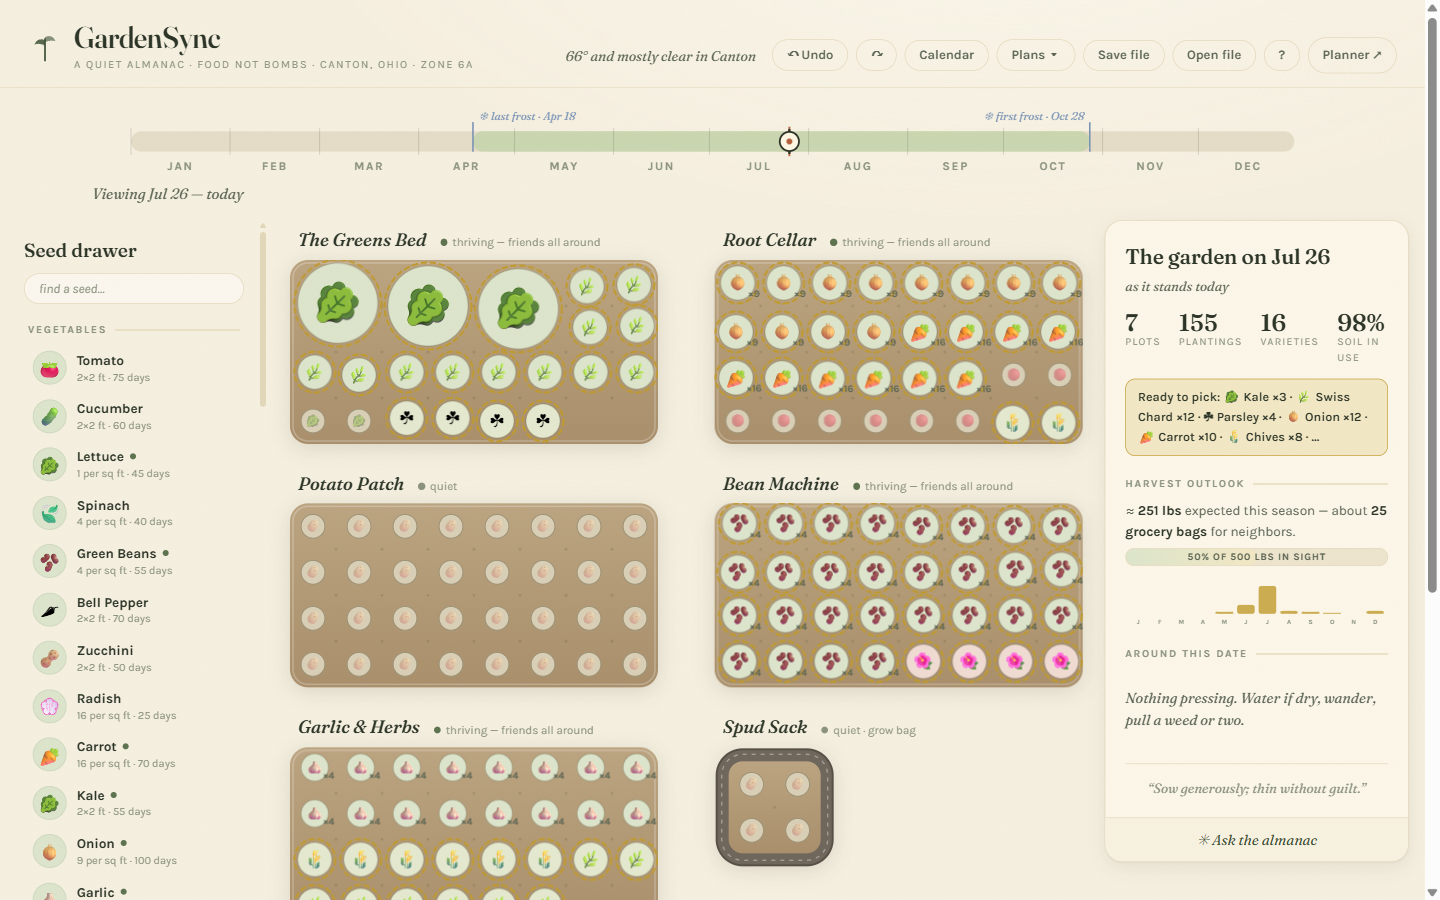
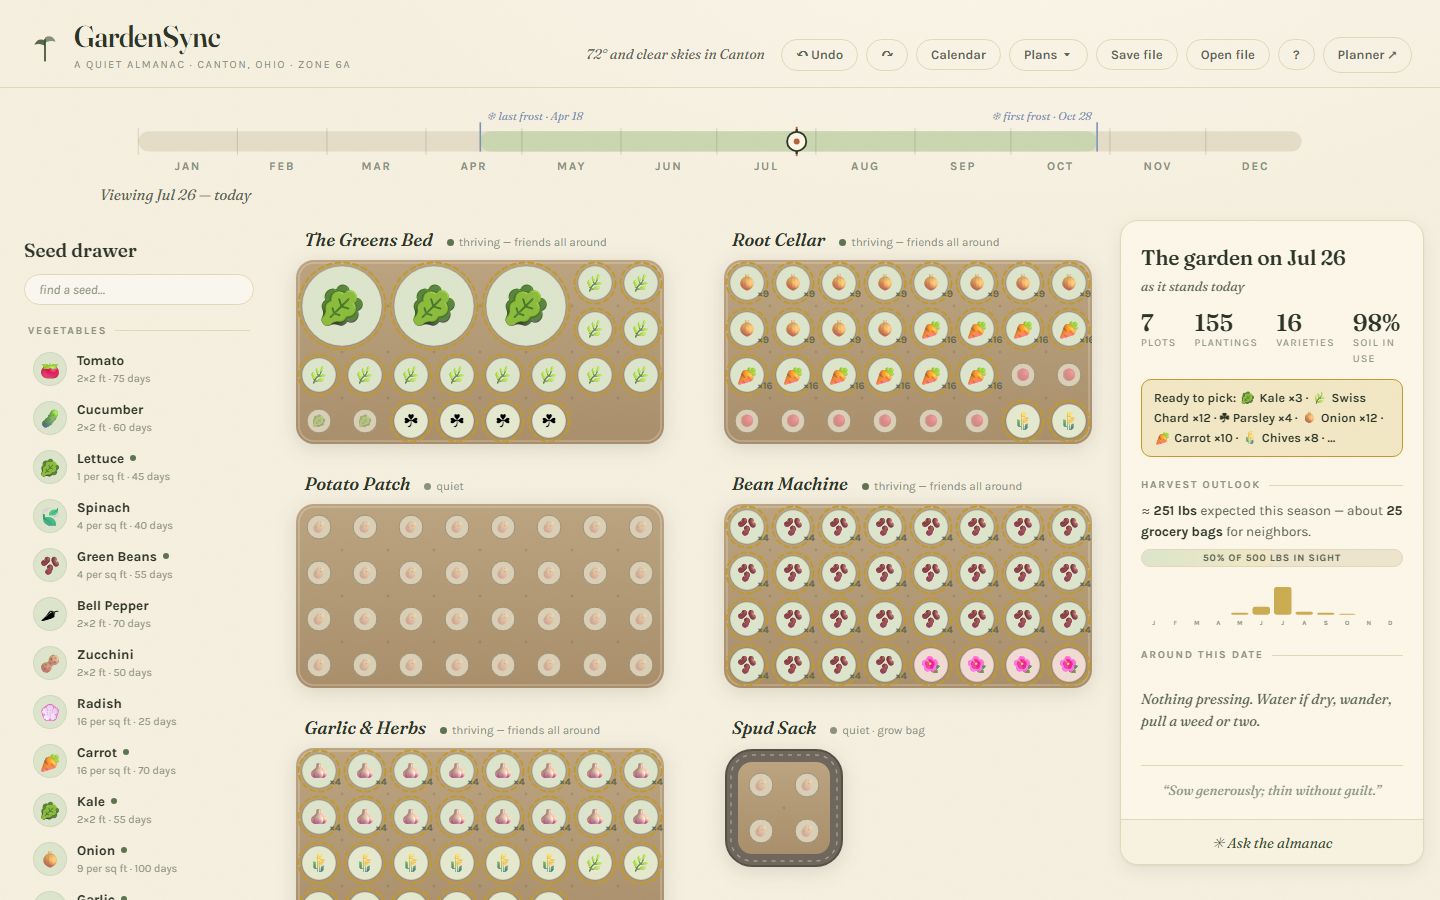
Remove the Food Not Bombs association
This is a personal project and is not officially associated with Food Not
Bombs. The masthead now reads 'A quiet almanac · Canton, Ohio · Zone 6a', and
the meta description, Open Graph tags, the poster export, the calendar
subtitle, the Ask the almanac system prompt and the proxy banner all say
Canton, Ohio. The default plan is 'Easy Start' and its template key lost the
fnb- prefix.

All ten screenshots were regenerated from the running app at their original
viewports — the name was rendered into the images, so scrubbing the source
alone would have left it on the README and the project page. The captures are
now reproducible: tools/shoot-almanac.js in the planner repo rebuilds them.

diff --git a/docs/index.html b/docs/index.html
@@ -3,21 +3,21 @@
 <head>
 <meta charset="UTF-8">
 <meta name="viewport" content="width=device-width, initial-scale=1.0">
-<title>A Quiet Almanac — GardenSync for Food Not Bombs Canton</title>
-<meta name="description" content="A calm garden bed planner for Food Not Bombs Canton, Ohio. Lay out beds and containers square by square, then drag the season ribbon to any day of the year and watch the garden redraw itself. 77 plants, Zone 6a.">
+<title>A Quiet Almanac — GardenSync for Canton, Ohio</title>
+<meta name="description" content="A calm garden bed planner for Canton, Ohio. Lay out beds and containers square by square, then drag the season ribbon to any day of the year and watch the garden redraw itself. 77 plants, Zone 6a.">
 <meta name="theme-color" content="#F5EFDF">
 <link rel="canonical" href="https://samizdat-publications.github.io/gardensync-almanac/">
 
 <meta property="og:type" content="website">
 <meta property="og:site_name" content="GardenSync — A Quiet Almanac">
 <meta property="og:title" content="A Quiet Almanac — a garden you plan by scrubbing through the year">
-<meta property="og:description" content="Lay out a community garden square by square, then drag the season ribbon to any date and every bed redraws itself: dashed plans, sprouts, full plants, gold harvest rings, sepia for what is spent. Built for Food Not Bombs Canton, Zone 6a.">
+<meta property="og:description" content="Lay out a community garden square by square, then drag the season ribbon to any date and every bed redraws itself: dashed plans, sprouts, full plants, gold harvest rings, sepia for what is spent. Built for Canton, Ohio, Zone 6a.">
 <meta property="og:url" content="https://samizdat-publications.github.io/gardensync-almanac/">
 <meta property="og:image" content="https://samizdat-publications.github.io/gardensync-almanac/screenshots/almanac-hero.png">
 <meta property="og:image:alt" content="The almanac's garden beds on warm cream paper, with a season ribbon running across the top of the page.">
 <meta name="twitter:card" content="summary_large_image">
 <meta name="twitter:title" content="A Quiet Almanac — a garden you plan by scrubbing through the year">
-<meta name="twitter:description" content="A calm garden bed planner for Food Not Bombs Canton, Ohio. Drag the season ribbon and the whole garden redraws itself at that date.">
+<meta name="twitter:description" content="A calm garden bed planner for Canton, Ohio. Drag the season ribbon and the whole garden redraws itself at that date.">
 <meta name="twitter:image" content="https://samizdat-publications.github.io/gardensync-almanac/screenshots/almanac-hero.png">
 
 <link rel="preconnect" href="https://fonts.googleapis.com">
@@ -374,7 +374,7 @@ footer .links a { color: var(--ink-soft); }
       </svg>
       <div>
         <h1>A Quiet Almanac</h1>
-        <p class="tagline">GardenSync<span class="sep">·</span>Food Not Bombs<span class="sep">·</span>Canton, Ohio<span class="sep">·</span>Zone 6a</p>
+        <p class="tagline">GardenSync<span class="sep">·</span>Canton, Ohio<span class="sep">·</span>Canton, Ohio<span class="sep">·</span>Zone 6a</p>
       </div>
     </div>
   </div>
@@ -390,7 +390,7 @@ footer .links a { color: var(--ink-soft); }
     <h2 class="display">A garden you plan by <em>scrubbing through the year</em>.</h2>
 
     <p class="lede">
-      A Quiet Almanac is a bed planner for the Food Not Bombs garden in Canton, Ohio — the beds whose
+      A Quiet Almanac is a bed planner for the community garden in Canton, Ohio — the beds whose
       harvest goes to neighbours. You lay out plots square by square from a library of
       <strong>77 plants</strong>, and the whole year sits at the top of the page as a ribbon.
       Drag the pin to any date and every bed redraws itself as it will look then.
@@ -738,7 +738,7 @@ python proxy.py          <span class="c"># then open http://localhost:8080</span
 <footer>
   <div class="sheet">
     <p>
-      Built for Food Not Bombs Canton, Ohio. The beds are real, the harvest goes to neighbours, and the
+      Built for Canton, Ohio. The beds are real, the harvest goes to neighbours, and the
       software is only useful to the extent it helps that happen.
     </p>
     <p class="links">

diff --git a/app.js b/app.js
@@ -150,7 +150,7 @@ function yieldOf(p) {
   if (p.type === 'flower') return 0;
   return 1.5;
 }
-const HARVEST_GOAL = 500;   // lbs — the FNB season goal
+const HARVEST_GOAL = 500;   // lbs — the season goal
 
 function harvestOutlook() {
   let total = 0;
@@ -301,7 +301,7 @@ function fillBed(bed, recipe) {
 
 const TEMPLATES = {
   'blank': () => [makeBed('North bed', 8, 4), makeBed('Middle bed', 8, 4), makeBed('South bed', 8, 4)],
-  'fnb-easy': () => [
+  'easy-start': () => [
     fillBed(makeBed('The Greens Bed', 8, 4), [['kale',3],['swiss-chard',12],['lettuce',2],['parsley',4]]),
     fillBed(makeBed('Root Cellar', 8, 4),    [['onion',12],['carrot',10],['beet',8],['chive',2]]),
     fillBed(makeBed('Potato Patch', 8, 4),   [['potato',32]]),
@@ -1121,7 +1121,7 @@ function savePoster() {
   ctx.fillText('GardenSync', PADX, 52);
   ctx.font = 'italic 14px Fraunces, Georgia, serif';
   ctx.fillStyle = '#5C6553';
-  ctx.fillText(`Food Not Bombs · Canton, Ohio · Zone 6a · pressed ${fmtDoy(todayDoy())}`, PADX, 76);
+  ctx.fillText(`Canton, Ohio · Zone 6a · pressed ${fmtDoy(todayDoy())}`, PADX, 76);
   ctx.fillText(`${state.beds.length} plots · ≈${Math.round(total)} lbs for neighbors this season`, PADX, 96);
 
   const imgs = items.map(i => new Promise(res => {
@@ -1166,7 +1166,7 @@ function openCalendar() {
   const events = gardenEvents();
   const { total } = harvestOutlook();
   document.getElementById('calendar-sub').textContent =
-    `Food Not Bombs · Canton, Ohio · Zone 6a · ${state.beds.length} plots · ≈${Math.round(total)} lbs projected`;
+    `Canton, Ohio · Zone 6a · ${state.beds.length} plots · ≈${Math.round(total)} lbs projected`;
 
   let html = '';
   for (let m = 0; m < 12; m++) {
@@ -1205,8 +1205,8 @@ function setupTools() {
     state.beds = TEMPLATES[b.dataset.plan]();
     state.sel = null; state.armed = null;
     renderDrawer(); renderBeds(); renderAlmanac(); renderPlantingNote(); save();
-    whisper(b.dataset.plan === 'fnb-easy'
-      ? 'The FNB Easy Start plan is laid out — five beds, a spud sack, and a blueberry pot.'
+    whisper(b.dataset.plan === 'easy-start'
+      ? 'The Easy Start plan is laid out — five beds, a spud sack, and a blueberry pot.'
       : 'Three blank beds, raked smooth.');
   }));
 
@@ -1478,7 +1478,7 @@ function localAnswer(qRaw) {
   if (has('what do i have', 'in my garden', 'what is planted', "what's planted", 'my beds', 'my plots'))
     return state.beds.length
       ? `You are tending ${state.beds.length} plots:\n${gardenSummary()}`
-      : `Nothing yet — the ground is bare. Open Plans for the FNB Easy Start layout, or add a bed beneath the garden.`;
+      : `Nothing yet — the ground is bare. Open Plans for the Easy Start layout, or add a bed beneath the garden.`;
 
   return ALMANAC_CAN;
 }
@@ -1517,7 +1517,7 @@ function setupAsk() {
 
     const thinking = addMsg('bot thinking', 'leafing through the almanac…');
 
-    const system = `You are the Almanac: a calm, knowledgeable companion inside GardenSync, a community garden planner for Food Not Bombs in Canton, Ohio (USDA Zone 6a; last frost Apr 18, first frost Oct 28). Today is ${fmtDoy(todayDoy())}; the user is viewing ${fmtDoy(state.viewDoy)}.
+    const system = `You are the Almanac: a calm, knowledgeable companion inside GardenSync, a community garden planner for Canton, Ohio (USDA Zone 6a; last frost Apr 18, first frost Oct 28). Today is ${fmtDoy(todayDoy())}; the user is viewing ${fmtDoy(state.viewDoy)}.
 
 The garden right now:
 ${gardenSummary() || '(no beds yet)'}
@@ -1614,7 +1614,7 @@ function boot() {
   }
 
   if (!state.beds.length) {
-    state.beds = TEMPLATES['fnb-easy']();
+    state.beds = TEMPLATES['easy-start']();
     fresh = true;
   }
   state.pinHint = fresh || shared;
@@ -1624,7 +1624,7 @@ function boot() {
   setupTools(); setupAsk(); loadWeather();
 
   if (shared) whisper('A shared garden, unfolded and laid out. Your old one is a Ctrl+Z away.', 5200);
-  else if (fresh) whisper('Welcome. The FNB Easy Start plan is laid out — drag the year above to watch it grow.', 5200);
+  else if (fresh) whisper('Welcome. The Easy Start plan is laid out — drag the year above to watch it grow.', 5200);
 }
 
 boot();

diff --git a/index.html b/index.html
@@ -4,13 +4,13 @@
 <meta charset="UTF-8">
 <meta name="viewport" content="width=device-width, initial-scale=1.0">
 <title>GardenSync — A Quiet Almanac</title>
-<meta name="description" content="A calm garden bed planner for Food Not Bombs Canton, Ohio. Plan companion plantings on a square-foot grid, then drag the season ribbon to watch the year grow. Zone 6a.">
+<meta name="description" content="A calm garden bed planner for Canton, Ohio. Plan companion plantings on a square-foot grid, then drag the season ribbon to watch the year grow. Zone 6a.">
 <meta name="theme-color" content="#F5EFDF">
 <link rel="canonical" href="https://gardensync-almanac.pages.dev/">
 <meta property="og:type" content="website">
 <meta property="og:site_name" content="GardenSync">
 <meta property="og:title" content="GardenSync — A Quiet Almanac">
-<meta property="og:description" content="Plan a community garden on a square-foot grid, then drag the season ribbon to watch the year grow. Built for Food Not Bombs Canton, Zone 6a.">
+<meta property="og:description" content="Plan a community garden on a square-foot grid, then drag the season ribbon to watch the year grow. Built for Canton, Ohio, Zone 6a.">
 <meta property="og:url" content="https://gardensync-almanac.pages.dev/">
 <meta property="og:image" content="https://gardensync-almanac.pages.dev/preview.png">
 <meta property="og:image:alt" content="The almanac's garden beds on warm paper, with a season ribbon across the top.">
@@ -37,7 +37,7 @@
     </svg>
     <div>
       <h1>GardenSync</h1>
-      <p class="tagline">A quiet almanac · Food Not Bombs · Canton, Ohio · Zone 6a</p>
+      <p class="tagline">A quiet almanac · Canton, Ohio · Zone 6a</p>
     </div>
   </div>
   <div class="masthead-tools">
@@ -48,7 +48,7 @@
     <div class="menu-wrap">
       <button id="btn-plans" class="tool-btn">Plans ▾</button>
       <div id="plans-menu" class="menu" hidden>
-        <button data-plan="fnb-easy">FNB Easy Start — five beds, low-keep crops</button>
+        <button data-plan="easy-start">Easy Start — five beds, low-keep crops</button>
         <button data-plan="blank">Blank slate — three empty beds</button>
         <hr class="menu-rule">
         <button id="menu-share">Copy a share link</button>

diff --git a/proxy.py b/proxy.py
@@ -251,7 +251,7 @@ if __name__ == '__main__':
         pass
 
     print(f"""
-  GARDENSYNC // FOOD NOT BOMBS CANTON
+  GARDENSYNC // CANTON, OHIO
   Server running on http://localhost:{PORT}
   Gemini API proxy active at /api/gemini/*
   Claude API proxy active at /api/claude/*

diff --git a/CLAUDE.md b/CLAUDE.md
@@ -4,7 +4,7 @@ This file provides guidance to Claude Code (claude.ai/code) when working with co
 
 ## Project Overview
 
-**GardenSync — A Quiet Almanac** is a square-foot garden planner for Food Not Bombs Canton, Ohio
+**GardenSync — A Quiet Almanac** is a square-foot garden planner for Canton, Ohio
 (USDA Zone 6a). You lay out beds and containers, plant them from a drawer of 77 seed packets, then
 drag a pin along a season ribbon to watch the whole year play out: dashed plans before sowing,
 sprouts, full plants, gold rings when a crop is ready, sepia when it is spent. The harvest feeds
@@ -139,7 +139,7 @@ warning, not a block.
   `output_config: {effort:'low'}` — the answers are three warm sentences and there are no tools, so
   extended thinking would only add latency and cost.
 - **Yield estimates** live in `yieldOf()` (a regex table of rough field estimates, lbs per
-  planting) and `HARVEST_GOAL = 500` lbs is the FNB season goal the progress bar measures against.
+  planting) and `HARVEST_GOAL = 500` lbs is the season goal the progress bar measures against.
   These are honest approximations; if you refine them, refine them from a source.
 
 ## Conventions
@@ -157,7 +157,7 @@ warning, not a block.
   Google Fonts. Set them via `--serif` / `--sans`.
 - **Voice.** The interface speaks quietly and in full sentences: "empty, full of possibility",
   "lifted gently and set aside". Transient messages go through `whisper()`. No exclamation marks,
-  no emoji stuffing beyond the plant glyphs, no shouting. The Food Not Bombs mission is real and
+  no emoji stuffing beyond the plant glyphs, no shouting. The community-garden mission is real and
   is never used as decoration.
 - **Accessibility is load-bearing:** each plot is one tab stop with arrow-key walking, overlays are
   `role="dialog" aria-modal="true"` and close on Escape, and animation respects

diff --git a/README.md b/README.md
@@ -1,7 +1,7 @@
 # A Quiet Almanac
 
 A square-foot garden planner you use by scrubbing through the year. Built for
-[Food Not Bombs Canton](https://en.wikipedia.org/wiki/Food_Not_Bombs), Ohio — USDA Zone 6a,
+[Canton, Ohio](https://en.wikipedia.org/wiki/Food_Not_Bombs), Ohio — USDA Zone 6a,
 last frost April 18, first frost October 28, 193 days in between.
 
 **Live: <https://gardensync-almanac.pages.dev/>**
@@ -164,7 +164,7 @@ The calendar overlay lays the whole plan out month by month — every sowing, ev
 every succession round, every first harvest. It is designed to print on paper and go on a shed
 wall, because that is where volunteer crews actually read things.
 
-![The calendar overlay, headed "The year in the garden" and subtitled "Food Not Bombs · Canton, Ohio
+![The calendar overlay, headed "The year in the garden" and subtitled "Canton, Ohio
 · Zone 6a · 7 plots · ≈251 lbs projected", with Print and Close buttons in the corner. Twelve month
 blocks run three to a row on cream paper, each a dated list — "Feb 7 · Start Onion seeds indoors",
 "Apr 18 · Direct sow Chives", "May 15 · First Kale harvest" — and the quiet months simply read
@@ -288,5 +288,5 @@ Two temperaments on the same research. Pick whichever one you will actually open
 
 ## Credit
 
-Built for Food Not Bombs Canton, Ohio. The harvest feeds neighbours; the software should get out
+Built for Canton, Ohio. The harvest feeds neighbours; the software should get out
 of the way of that.

diff --git a/CHANGELOG.md b/CHANGELOG.md
@@ -129,7 +129,7 @@ and a first-visit hint on the ribbon pin.
   rules apply: everything fits one square, and sprawlers are warned they will
   sulk.
 - **Harvest outlook.** Projected pounds, a progress bar against the 500 lb
-  Food Not Bombs season goal, and a month-by-month chart.
+  season goal, and a month-by-month chart.
 - **A printable year.** Every sowing, transplant, succession round and first
   harvest, laid out month by month for the volunteer crew.
 - **Field notes and caretakers** per plot.
